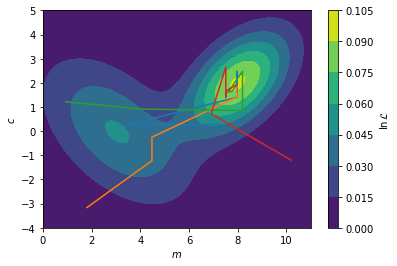
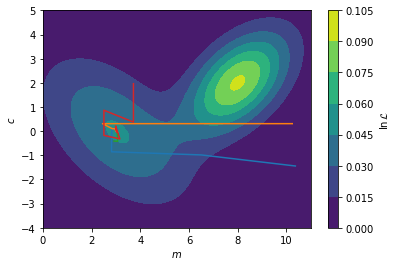
deploy: 1a5ddebe4ff2d83d4aadf628869c73e06b9ba302

diff --git a/searchindex.js b/searchindex.js
@@ -1,1 +1,1 @@
-Search.setIndex({docnames:["1_the_fourier_transform/an_introduction_to_fourier_transforms","1_the_fourier_transform/fourier_transforms_for_reflectometry_analysis","2_model_dependent_analysis/what_is_model_dependent_analysis","3_reflectometry_slab_models/how_we_calculate_the_reflectivity_of_a_slab_model","3_reflectometry_slab_models/roughness_and_microslicing","3_reflectometry_slab_models/the_slab_model","4_model_reparameterisation/a_case_for_model_reparameterisation","4_model_reparameterisation/niti_multilayer_example","4_model_reparameterisation/phospholipid_monolayer_example","5_fitting_processes_and_problems/how_do_we_maximise_the_likelihood","5_fitting_processes_and_problems/how_to_leverage_our_prior_knowledge","5_fitting_processes_and_problems/what_is_the_likelihood","intro"],envversion:{"sphinx.domains.c":2,"sphinx.domains.changeset":1,"sphinx.domains.citation":1,"sphinx.domains.cpp":4,"sphinx.domains.index":1,"sphinx.domains.javascript":2,"sphinx.domains.math":2,"sphinx.domains.python":3,"sphinx.domains.rst":2,"sphinx.domains.std":2,"sphinx.ext.intersphinx":1,"sphinxcontrib.bibtex":7,sphinx:56},filenames:["1_the_fourier_transform/an_introduction_to_fourier_transforms.md","1_the_fourier_transform/fourier_transforms_for_reflectometry_analysis.ipynb","2_model_dependent_analysis/what_is_model_dependent_analysis.md","3_reflectometry_slab_models/how_we_calculate_the_reflectivity_of_a_slab_model.ipynb","3_reflectometry_slab_models/roughness_and_microslicing.ipynb","3_reflectometry_slab_models/the_slab_model.md","4_model_reparameterisation/a_case_for_model_reparameterisation.md","4_model_reparameterisation/niti_multilayer_example.ipynb","4_model_reparameterisation/phospholipid_monolayer_example.ipynb","5_fitting_processes_and_problems/how_do_we_maximise_the_likelihood.ipynb","5_fitting_processes_and_problems/how_to_leverage_our_prior_knowledge.md","5_fitting_processes_and_problems/what_is_the_likelihood.ipynb","intro.md"],objects:{},objnames:{},objtypes:{},terms:{"0":[1,3,4,8,9,10,11,12],"000":9,"00039":12,"001":[1,3,4],"00260":12,"003":12,"0053":12,"007":12,"012":12,"01980001503076100":12,"02":12,"022":[7,12],"02614057":9,"0294":12,"03":12,"033":9,"04493869":9,"0469":12,"04893":12,"0496667614679125":11,"06":[4,7],"07":12,"074":1,"074e":[1,4],"078":12,"092":9,"0j":[3,4],"1":[0,1,3,4,7,8,9,10,11,12],"10":[1,4,7,9,11,12],"1000":[1,3,8,9,11],"1008202821328":12,"1016":12,"1023":12,"1039":12,"104":1,"1051":12,"107":12,"108":12,"1098":12,"11":[9,12],"1103":12,"1107":12,"1119":12,"1198":12,"12":[4,11,12],"1204":12,"14":4,"15":[8,12],"155":12,"16":[1,3],"167":9,"17":4,"1761":12,"1763":12,"18":[8,12],"186":1,"186e":[1,3,4],"18th":12,"19":[8,9,12],"193":12,"1948":12,"194812030504":12,"1954":12,"197":12,"1980":12,"1997":12,"1998":12,"1999":12,"1e":4,"1f77b4":11,"1j":[1,3],"2":[1,2,3,4,7,9,11,12],"20":[1,3,4],"200":[1,3,4,12],"2005":12,"2006":12,"2007":12,"2010":12,"2011":12,"2018":12,"2019":12,"2021":12,"20384101638663543":11,"204":12,"21":12,"23":7,"248":12,"25e":4,"265":8,"265n_c":8,"2827":12,"2848":12,"297":12,"2k_nk_":4,"3":[1,3,4,5,7,9,11,12],"300":[1,3],"311":12,"3254017":12,"33":12,"338":12,"339":12,"341":12,"342":12,"357":12,"359":12,"369":12,"370":12,"3blue1brown":0,"3e":7,"4":[1,3,4,5,7,9,11,12],"40":12,"41":12,"417":7,"417e":7,"418":12,"42":[11,12],"4245e":4,"434":12,"438":7,"44":12,"4526":12,"47":[7,12],"471":12,"5":[1,3,4,8,9],"50":4,"500":[1,3,4],"504":12,"51":7,"52":12,"520":12,"53":12,"531":12,"54":12,"58":7,"59":12,"596":12,"5q":3,"6":[1,3,4,7,9,12],"6133":12,"6141":12,"648":12,"649":12,"69":7,"7":[4,8,9,11],"73371606":9,"761":12,"779":12,"78":12,"8":[4,7,9,11],"84974279":9,"856832":12,"867":7,"87":12,"871":1,"871e":[3,4],"9":[4,7,12],"90":8,"908":7,"91":7,"922868":12,"95":12,"951e":7,"978":12,"98":[1,12],"99":12,"9957561":9,"99615666":9,"99998503":9,"99999727":9,"\u00e0":12,"\u00e5":[0,1,3,4,7,8],"\u00e8":12,"\u00e9":12,"\u00f6":12,"\u00fc":12,"abel\u00e8":[3,4],"abstract":7,"br\u00f6hl":12,"case":[5,10],"do":[1,2],"float":[7,9,11],"function":[1,2,3,4,5,8,9,11],"import":[1,2,3,4,5,6,7,8,9,11],"int":1,"new":12,"return":[1,3,7,9,11],"switch":12,"true":[6,9],"try":[9,12],"while":[6,7],A:[1,2,4,5,7,8,9,12],As:[5,8],Be:9,By:2,For:[1,7,8,11,12],If:[1,2,9,10,11,12],In:[1,5,6,8,9,10,12],It:[2,4,5,8,9,10,12],No:4,One:8,The:[0,2,3,4,6,7,8,9,11,12],Then:[1,2,3],There:[4,9],These:[1,4,9],To:[1,4,6],_:[1,3],ab:[1,3],abel:[3,4,12],abeles48:[3,12],abeles_with_rough:4,abl:4,about:[6,8,9,10],abov:[1,2,4,7,9,11],abscissa:11,absolut:9,academ:12,accept:[1,10],account:[4,12],accur:[2,4,6],acf2:1,acf:1,achiev:[4,8,10],across:11,act:8,action:1,ad:8,adapt:4,add:8,add_patch:4,addit:[1,6,8],addition:[2,3,4,6,7,9],admittedli:4,advanc:12,affect:8,after:[1,9],again:[1,4],against:5,agnet:12,agre:11,agreement:[2,9,11],aid:3,aim:[9,11,12],air:[1,4,8,12],al:6,algorithm:[2,9,10,12],all:[0,3,9,10,12],allow:[6,7,8,9],alon:9,alonso:12,alpha:11,alreadi:[2,10],also:[4,7,8],although:1,am:12,amphiphil:8,an:[2,4,5,6,9,10,12],analog:[0,9,11],analys:[9,12],analysi:[3,5,7,8,9,10,11,12],analyt:2,andbook:12,andrew:12,angstrom:7,ani:[4,11,12],ann:12,anomagnet:12,anoth:1,anphi:12,answer:12,apm:8,append:9,appl:12,appli:[1,2,4,6,8,9,12],applic:[3,9,12],approach:[1,2,3,4,5,6,7,8,9,12],approx:1,approxim:[3,12],ar:[0,1,2,3,4,5,6,7,8,9,10,11,12],area:6,argmax:9,argsort:9,arnold:12,around:4,arrai:[1,3,4,7,9],artefact:4,artifici:12,assembl:8,assess:9,assign:7,associ:[10,11,12],assum:[8,12],assumpt:[2,6,7,8],ateri:12,atom:[7,8],attach:8,attent:12,autocorrel:1,avail:1,avogadro:7,awar:[2,9],ax:[4,11],axhlin:1,b:[3,7,12],b_:[3,7],b_i:[7,8],b_ni:7,b_ti:7,back:9,bar:[3,11],base:[2,3,7],basic:12,bay:[10,12],bayesian:[10,12],becom:[1,9],been:[1,3,4,7,8,12],befor:[0,4,5,12],begin:3,being:[2,4,11],belief:10,believ:2,below:[0,1,3,4,5,7,8,9,11],benefit:8,berk:12,best:[8,9,11],beta:[1,3,4,7,8],beta_0:3,beta_1:5,beta_2:5,beta_:[1,7,8],beta_i:8,beta_microsl:4,beta_n:3,beta_ni:7,beta_ti:7,between:[0,1,2,3,4,5,9,11],bia:2,bias:10,bigg:[1,11],biolog:[9,12],bj:12,bjorck11:[9,12],black:[1,9],block:12,blue:[1,9,11],bmatrix:3,book:[1,10,12],born:[3,12],borrow:1,both:8,bound:[7,10],bowen:12,bp63:[10,12],bring:3,broad:[2,11],broadli:2,brought:3,bsd:3,c9cp00203k:12,c:[1,9,11,12],calcul:[1,2,4,5,8,11],call:5,callback:9,campbel:12,can:[1,2,3,4,5,6,7,8,9,10,11,12],cannot:[4,11],caract:12,carbon:8,carefulli:9,caruana:12,cation:12,catter:12,caus:8,caution:6,cdot:7,chanc:12,chang:[1,2,9],character:12,characterist:3,characteristic_matric:3,chem:12,chemic:[5,6,12],chemistri:2,chi:11,circ:8,clark:12,clear:[2,4,5,9],clearer:3,clearli:4,click:12,clifton:12,close:3,cm:7,coci:12,code:[4,7,9,12],collect:12,colloid:12,color:11,colorbar:9,comfort:12,common:[2,4,5,7,8,9],commonli:[6,9,11],companion:12,compar:[2,3,4,6,11],comparison:5,complementari:6,complet:[2,9],complex:[3,8,9,12],composit:8,computation:9,concept:6,conclus:9,condens:12,conj:3,conjug:3,consid:[1,2,3,4,5,7,8,9,10,11],consider:9,consist:[5,7,8],constant:[2,7,10],constrain:[7,8],constraint:[6,8],construct:[2,3,5,10],consult:8,content:12,context:2,continu:12,contourf:9,contrast:9,convers:6,could:[5,10],coupl:9,cours:12,cover:[2,12],creat:4,croce:[4,12],crystallogr:12,crystallographi:1,css:[8,12],cubitt:12,curr:12,current:[9,12],current_theta:9,curve_fit:11,d:[1,3,4,11,12],d_1:5,d_2:5,d_h:8,d_i:8,d_microsl:4,d_n:3,d_t:8,dan:12,data:[1,2,3,4,5,6,7,8,9,10,11,12],databas:7,datapoint:11,dataset:[9,11],de:12,decomposit:0,deep:12,def:[1,3,7,9,11],defin:[1,2,5,6,7,8,11],deg2rad:8,delta:1,denot:1,densiti:[1,3,4,5,6,8],depend:[5,7,8,9,10,11,12],deposit:7,deriv:[1,5],descent:9,describ:[2,3,4,5,6,9,10,11],descript:[1,6,8],design:10,desir:[7,9],deslatt:12,destruct:5,detail:[0,1,2],detector:5,determin:[3,9,12],develop:12,deviat:[3,11],devind:[1,10,12],diatom:2,diff:[1,3],differ:[1,4,5],differenti:[9,10,12],differential_evolut:9,difficult:8,dimens:[1,5],dimension:9,dioxid:[1,4],directli:7,discoveri:9,discuss:[1,4,5,11],disposit:7,distribut:[9,11],divid:1,docstr:3,doctrin:12,doe:[2,3,4],doi:12,domain:0,done:11,dot:11,downhil:9,dppc:8,dr:[1,10,12],draw:[9,12],dtype:3,du:12,due:[1,2],dura:12,dvanc:12,e:[5,12],each:[3,4,5,7,8],easili:[7,9],edgecolor:4,edit:12,editor:12,edler:12,effect:[1,4,9,12],effici:12,eflect:12,elast:0,element:[7,11],elementari:[1,12],eleph:12,els:2,enabl:[4,10],encount:[2,9],end:3,ensur:[2,9],entir:2,enumer:11,enzym:2,equat:[1,2],error:[4,11],errorbar:11,essai:12,essenti:0,estim:1,et:6,european:12,eutect:12,eutron:12,evalu:[7,12],eventu:9,ever:2,everi:8,evolut:[9,10,12],evolutionari:9,exampl:[2,4,5,6,9,10],exhaust:12,exist:[4,9],exp:[1,3,4],expect:[2,10],experi:[2,12],experiment:[2,5,6,11],explicitli:1,exploit:12,extend:8,extrem:8,f:[3,7,12],fact:10,factor:[3,11],fair:2,fals:4,familiar:[1,2,6],fantast:1,far:11,fashion:9,feed:9,feedback:12,feel:12,fernandez:12,ff7f0e:11,field:[8,12],fig:[2,4,5,8,11],figsiz:[4,11],figur:[1,2,4,9,11,12],fill:4,fill_between:11,find:[1,2,4,7,8,9,10,11],first:[1,2,3,5,6,7,9,11],fit:[2,6,7,9,11],fitzsimmon:12,flat:[1,4],flavour:[6,9],flexion:12,flow:2,fm05:12,fm:7,focus:0,follow:[1,7,8,9,11,12],forc:2,form:[1,9],formal:[3,4],format:12,found:[1,3,4,7,8,9,10],four:12,fourier:[2,3,5,12],fourier_transform:1,frac:[1,3,4,7,8,10,11],fraction:8,free:[6,9,12],frensel:3,fresnel:[3,4],fresnel_reflect:3,from:[0,1,2,3,4,5,6,7,8,9,11,12],full:1,fulli:8,fundament:[0,5],further:[9,10],g:[7,12],garbag:2,gcm:7,gener:[2,9,12],genet:12,geometri:5,gerelli:12,get:[2,11,12],give:[0,3,6,12],given:[4,5,8,9,11],glob:12,global:[9,12],go:[3,5,9],good:11,gradient:11,gradient_callback:9,gradient_v:9,graphic:7,great:[0,10],greater:1,group:8,guess:9,guntherodt:12,h:12,ha:[1,4,7,8,12],hall:12,hand:4,hard:7,harder:9,have:[1,2,3,8,9,10,11,12],head:8,heavili:[8,11,12],heavisid:1,heinrich:12,helper:[4,9],henc:[0,11],henomena:12,here:[3,11],heurist:12,higher:8,hoogerheid:12,hopefulli:5,horizont:1,how:[2,5,6,8,11,12],howard:12,howev:[1,2,4,5,6,7,9,11],hydrocarbon:8,hydrophil:8,hydrophob:[8,12],i:[1,3,5,7,8,11],identifi:4,ignor:4,impact:[0,4],implement:[3,4,9],impli:4,impos:10,improv:2,inaccur:4,incid:[1,5],includ:[0,2,3,7,8,12],incorrectli:4,increas:[4,9,11],independ:2,indic:[1,9,11],individu:[3,7],induc:12,influenc:4,inform:[1,6,12],infti:1,inher:2,initi:9,input:3,insect:9,insight:[2,12],insolubl:8,inspir:9,instead:[1,3,7,9,10],instrument:8,integr:[10,12],intens:[1,9],interact:[0,1,12],intercal:8,intercept:11,interest:[0,2,12],interfac:[3,4,5,8,12],interfer:5,interpret:[2,4],interrog:[4,9],introduc:[2,4,5,6,8,10,12],introduct:10,inv_fourier_transform:1,invers:[1,12],investig:[1,2,6,9],involv:[5,7],isbn:12,isi:12,isotop:9,issu:1,its:7,j:12,jackson:12,jci:12,john:[6,12],jpsc21:[6,12],jupyt:12,jupyterhub:12,k0:3,k:[1,3,9,12],k_0:3,k_:[3,4],k_n:[3,4],karin:12,khairi:12,kienzl:12,kinet:2,kn:3,knowledg:12,known:[2,4,8],kronm:12,l:[9,10,11,12],la:12,label:[1,3,4,9],lak19:12,lakei:12,languag:[6,12],larg:[1,12],later:[5,7],latter:6,lawrenc:12,layer:[3,4,5,7,8],le:12,lead:[0,2,4,5],leak:4,learn:[8,12],lectromagn:12,lectur:12,left:4,legend:[1,3,4],length:[1,3,4,5,6,8],less:5,let:[0,1,10],licens:3,light:12,like:[2,4,8,10],likelihood:10,likleihood:10,limit:[1,2,7,8],line:[1,9,11],linearli:11,link:12,linspac:[1,3,4,8,9,11],lipid:12,liquid:12,list:12,literatur:8,ller:12,ln:[9,11],loadtxt:11,local:9,log:[1,3,4,11],logic:[2,10,12],logpdf:9,lond:12,look:[0,1,2,3,6,9,10,11],loss:1,lost:5,lovel:12,low:3,lr99:[2,12],ls:11,lw:11,m:[3,9,11,12],m_:[3,7],m_w:7,m_w_ni:7,m_w_ti:7,made:[2,6,7],magnet:12,magnitud:1,mai:[1,2,6,7,11,12],majkrzak:12,major:[7,11],make:[2,3,6,8,12],mani:9,marker:11,mass:6,match:1,materi:[1,3,4,5,7,12],mathcal:[9,10,11],mathemat:12,mathit:[1,3],mathrm:[1,3,7,8,11],matnei:12,matplotlib:[1,3,4,8,9,11],matric:3,matrix:[3,4],matter:[7,12],matyszewska:12,max:[1,3,11],maxima:9,maximilian:12,maximis:[10,11],maximum:[8,9,10,11],mayer:12,mbd:[1,12],mccluskei:12,mead:9,mean:[1,4,7,8,9,11],measur:[0,1,2,5,6,10,11],media:3,member:9,membran:12,menten:2,mention:8,merit:2,meshgrid:9,method:[3,4,12],methodolog:[1,2,4,9,12],metric:[9,11],micel:12,micha:2,might:2,milieux:12,minim:9,minimis:[9,11],minimum:[9,10],mkh10:[2,12],modal:9,model:[1,4,7,8,9,10,11,12],modifi:[3,4,12],modul:[4,9],mol:7,molecul:[2,6],molecular:7,monolay:12,more:[0,2,4,6,7,8,9,10,11,12],most:[3,4,5,9],move:9,movement:12,msfe:[8,12],much:[3,5],multi:9,multivariate_norm:9,must:[2,4,8],mv1:9,mv2:9,mv:9,n:[3,4,7,8,11,12],n_:[3,11],n_a:7,n_c:8,nanostructur:12,natur:[6,8],navig:12,nazaruk:12,ndarrai:[1,3,7,9,11],nearbi:9,necessari:[3,4,9],need:2,neg:9,nelder:9,nelson:12,neutron:[0,1,2,3,5,6,7,9],nevot:4,nevotc80:[4,12],newaxi:[1,3],ni:7,nickel:[4,7],nll:9,nois:1,noisi:1,non:9,none:9,norm:11,normal:[1,3,9,11],normal_wavevector:3,normalis:[1,11],note:[1,2,8,9],notebook:12,notic:[4,11],novemb:12,now:[0,3,4,8,9,11],np19:[3,12],np:[1,3,4,7,8,9,11],nuanc:5,number:[1,6,7,8,9,11],number_lay:3,number_q:3,numpi:[1,3,4,7,8,9,11],o:11,observ:[1,4,5,11],obtain:[1,4,7],obvious:5,offer:2,olar:12,onc:[9,12],ond:12,one:[8,9,10,11],ones:3,ones_lik:4,onli:[1,4,7,8,11],onlin:7,opin:12,opinion:12,optim:[9,11,12],optimis:[8,9],optimum:9,orang:[9,11],order:[5,9],org:12,other:[8,11],our:[1,2,4,5,6,7,8,9,11],out:[2,10],outsid:10,over:12,overal:[3,9,11],overview:0,oxford:12,p0:3,p1:3,p:[10,11,12],packag:[3,7],page:12,pai:12,pan:12,panaccion:12,panosc:12,paper:12,par54:[3,12],par:12,param:[1,3,7,11],paramet:[3,4,5,6,7,8,9,10,11,12],parameteris:[6,8,12],pari:12,parker:12,parkin:12,parratt:[3,12],part:[1,11,12],particip:12,particl:9,particular:[5,6],particularli:12,patch:4,path:[5,9],pattern:[0,5],pdf:[9,11],peak:1,pedulla:12,per:6,perfect:4,perfectli:4,perform:[0,1,11],perpendicular:1,pg:1,phase:[1,2,3,12],phase_factor:3,phi:3,phi_0:3,phi_i:8,phi_n:3,phi_t:3,phil:12,phospholipid:12,phy:12,physic:[1,2,5,6,8,12],physica:12,physrev:12,pi:[1,3,11],pictori:8,piec:[1,4,7],pint:7,place:10,plane:[1,8],pleas:12,plot:[1,3,4,8,9,11,12],plt:[1,3,4,8,9,11],point:11,polar:12,polissag:12,popul:9,popular:2,posit:9,possibl:[1,2,4,5,8,9,11,12],posterior:10,power:12,prepar:[2,7],prescott:12,present:[1,2,4],press:12,pressur:8,preston:12,previou:[2,6],previous:[3,4,6,8],price:12,print:[7,9],probabl:[10,11],probe:[2,9,10],problem:[1,2,9,12],problemat:12,procedur:12,process:[2,6,7,9,12],prod:3,produc:[1,2,12],product:3,profil:[1,4,5],program:12,project:12,propag:[3,5,12],propos:2,propto:10,py:[4,9],pyplot:[1,3,4,8,9,11],python:[3,12],q2:1,q:[0,1,2,3,4,12],q_:1,q_x:1,q_y:1,qualiti:9,quantifi:9,quelqu:12,question:12,quick:1,r2:1,r:[1,3,4,5,8,12],r_:[3,4],r_abel:3,r_fourier:3,r_microsl:4,r_nevot_croc:4,r_with_rough:4,radiat:[0,1],rai:[1,12],random:9,rang:[1,2,3,4,9,12],rasant:12,rather:[2,6,7],ratio:5,ration:9,rayon:12,rck:12,re:9,reach:[7,9],read:12,reader:12,real:[3,4,5],realli:2,reason:7,recent:[8,12],rectangl:4,recurs:3,red:4,reduc:[6,8],refin:5,reflect:[1,2,4,5,12],reflectometri:[0,2,3,4,5,6,7,8,9,11],refnx:[3,12],refract:[3,5],region:[1,4,8,9],relat:7,relationship:1,relev:[8,12],reli:3,render:1,reparameteris:[5,7,8,11,12],repeat:7,repres:[2,11],reproduc:3,requir:[6,12],res1:9,res2:9,resolut:[1,2],respect:1,result:[1,2,3,4,5,9],resultant_matrix:3,retriv:1,rev:12,review:12,rewrit:1,rho:[3,7],rho_:7,rho_ni:7,rho_ti:7,rho_to_beta:7,richardson:12,right:4,risat:12,robust:9,room:7,root:9,rout:9,rphysap:12,rsta:12,rstl:12,rule:4,s0021889811041446:12,s0921:12,s1359:12,s1600576718017016:12,s1600576718017296:12,s:[0,1,7,8,9,10,12],saaka:12,sai:1,same:[4,5,7,11],sampl:[0,1,2,4,7],sanchez:12,sansom:12,satija:12,scale:[1,12],scatter:[0,1,3,4,5,6,8,12],sche:12,sci:12,scienc:[2,12],scipi:[7,9,11],search:12,section:[2,5,6,9],see:[4,5,9],seen:[10,11],select:11,self:8,semi:9,sensit:1,seri:[3,4,5],set:7,set_xlabel:[4,11],set_xlim:4,set_ylabel:[4,11],set_ylim:4,shao:12,shape:[3,9],shortest:4,should:[1,4,6,8,9,11,12],show:[1,2,3,4,5,7,8,9,11,12],shown:[1,2,3,4,5,8,9,11],si:1,sigma2:4,sigma3:4,sigma5:4,sigma7:4,sigma:[4,11],sigma_:4,sigma_n:11,silic:12,silicon:[1,4,7],similar:[2,3],simpl:[1,2,5,6,7,8,9,10,12],simpli:9,simul:[2,4,5,6,7],sin:8,singl:[8,11],sio_2:1,sit:[8,11],siv11:[1,12],sivia:[1,10,12],sj06:[10,12],skill:12,skip:12,sko19:12,skoda:12,slab:[4,6,8,12],sld_with_rough:4,smooth:[1,4],so:11,soc:12,soft:12,solid:12,solubl:8,solut:9,solv:12,solvat:8,solvent:[8,12],some:[0,1,2,4,5,8,9,10,11,12],someth:[0,2],son:12,sourc:12,sp97:[9,12],space:[0,9,12],spallat:12,speak:8,specif:[6,8],spectra:2,specular:12,spintron:12,springer:12,sqrt:3,squar:[1,3],sratifi:12,staff:8,standard:11,start:[9,10],stat:[9,11],state:10,step:[4,9,10],stephen:12,still:[4,7],storn:12,straight_lin:11,straightforward:6,strand:8,stratifi:3,structur:[1,2,6,7,12],student:12,studi:[1,2,8,12],subject:12,subplot:[4,11],suggest:[10,12],sum:[1,3,7],sum_:[7,8,11],summat:11,superphas:3,sur:12,sure:12,surfac:[1,3,7,12],surfact:12,swarm:9,synthesi:2,system:[1,2,4,5,6,7,8,9,12],t:[9,12],t_t:8,tackl:2,tail:8,take:[0,2,9,10],taken:[3,5],tan80:[8,12],tanford:[8,12],techniqu:[6,12],temperatur:7,tend:1,term:[5,7,8,11],textquotesingl:12,than:[1,4,7,9],thank:12,thei:[9,12],them:[4,11],theorem:10,theori:[1,12],therefor:[2,4,6,7,9,10],theta:[8,9,10,11],thi:[0,1,2,3,4,5,6,7,8,9,10,11,12],thick:[1,3,4,5,8],thin:4,thing:2,think:6,those:10,thought:1,three:[2,7],through:[3,4,5,12],thumb:4,tight_layout:11,time:[0,1,4,7],tiqu:12,titanium:7,tkh:[9,12],togeth:3,tool:[1,2,6],top4:9,top:1,toperverg:12,total:12,touch:12,toward:[1,9,12],tradit:[7,8,12],train:12,tran:12,transform:[2,3,5,12],translat:6,transmitt:3,treec:12,trigonometri:8,tude:12,turn:9,tutori:[10,12],two:[2,3,4,5,6,8,9],txt:11,typic:[2,4,5,6,7,8,9,11],tz07:12,u:7,uantum:12,uncertainti:11,unclear:7,under:[1,3,8],underli:[2,11],understand:[2,3,5,6,10,12],unintuit:6,uniqu:9,unit:0,unitregistri:7,univers:12,unlik:8,unphys:[1,4],until:7,up:9,uphil:9,us:[2,3,4,6,7,8,9,10,11,12],useless:1,user:[1,12],utilis:1,valu:[1,3,7,8,9,10,11],vari:[7,9],variabl:7,varieti:9,vector:3,veri:[4,8,9],verr:12,version:1,vibrat:2,video:0,virtual:12,visit:12,visualis:[1,4],vot:12,w:[7,12],wa:[1,2,5,10,12],wai:[2,8],want:12,watch:0,water:[8,12],wave:[3,5],wavevector:[1,3],wc19:12,we:[0,1,2,4,5,6,7,8,10,11,12],weight:7,welbourn:12,well:2,were:10,what:12,when:[3,5,8,9,10,11],where:[1,2,3,4,5,7,8,9,10,11],which:[0,1,3,4,7,8,9,10,11],width:4,wiesendang:12,wilei:12,within:10,without:[1,2,4],word:2,work:[4,6,12],workflow:2,wormington:12,would:[2,4,5,8,10],wpmb99:[9,12],written:[1,11],wwe:8,x:[1,9,11,12],x_n:11,xlabel:[1,3,4,8,9],xy:8,y:[9,10,11,12],y_fit:11,y_n:11,ylabel:[1,3,4,8,9],you:[1,2,10,11,12],your:[8,12],yscale:[1,3,4],yy:11,z:[1,3,4,5],zabel:12,zero:3,zeros_lik:[1,3],zhou:12,zorder:11,zq:1,ztbt07:12},titles:["An introduction to Fourier transforms","Fourier transforms for reflectometry analysis","What is model-dependent analysis?","How we calculate the reflectivity of a slab model","Roughness and microslicing","The \u201cslab model\u201d","A case for model reparameterisation","NiTi multilayer example","Phospholipid monolayer example","How do we maximise the likelihood?","How to leverage our prior knowledge?","What is the likelihood?","Introduction to neutron reflectometry fitting"],titleterms:{"case":6,"do":9,A:[6,10],The:[1,5],algorithm:3,an:[0,1],analysi:[1,2],angl:8,approxim:1,area:8,bibliographi:12,born:1,calcul:3,chain:8,densiti:7,depend:2,exampl:[1,7,8],fit:12,fourier:[0,1],gradient:9,how:[3,9,10],interfac:1,interfaci:4,introduct:[0,12],knowledg:10,layer:1,length:7,leverag:10,likelihood:[9,11],mass:7,maximis:9,method:9,microsl:4,model:[2,3,5,6],molecul:8,monolay:8,multilay:7,neutron:12,niti:7,our:10,oxid:1,per:8,phospholipid:8,prior:10,problem:4,reflect:3,reflectometri:[1,12],reparameteris:6,rough:4,scatter:7,singl:1,slab:[3,5],specular:1,stochast:9,tilt:8,transform:[0,1],uniform:10,us:1,we:[3,9],what:[0,2,11]}})
+Search.setIndex({docnames:["1_the_fourier_transform/an_introduction_to_fourier_transforms","1_the_fourier_transform/fourier_transforms_for_reflectometry_analysis","2_model_dependent_analysis/what_is_model_dependent_analysis","3_reflectometry_slab_models/how_we_calculate_the_reflectivity_of_a_slab_model","3_reflectometry_slab_models/roughness_and_microslicing","3_reflectometry_slab_models/the_slab_model","4_model_reparameterisation/a_case_for_model_reparameterisation","4_model_reparameterisation/niti_multilayer_example","4_model_reparameterisation/phospholipid_monolayer_example","5_fitting_processes_and_problems/how_do_we_maximise_the_likelihood","5_fitting_processes_and_problems/how_to_leverage_our_prior_knowledge","5_fitting_processes_and_problems/what_is_the_likelihood","intro"],envversion:{"sphinx.domains.c":2,"sphinx.domains.changeset":1,"sphinx.domains.citation":1,"sphinx.domains.cpp":4,"sphinx.domains.index":1,"sphinx.domains.javascript":2,"sphinx.domains.math":2,"sphinx.domains.python":3,"sphinx.domains.rst":2,"sphinx.domains.std":2,"sphinx.ext.intersphinx":1,"sphinxcontrib.bibtex":7,sphinx:56},filenames:["1_the_fourier_transform/an_introduction_to_fourier_transforms.md","1_the_fourier_transform/fourier_transforms_for_reflectometry_analysis.ipynb","2_model_dependent_analysis/what_is_model_dependent_analysis.md","3_reflectometry_slab_models/how_we_calculate_the_reflectivity_of_a_slab_model.ipynb","3_reflectometry_slab_models/roughness_and_microslicing.ipynb","3_reflectometry_slab_models/the_slab_model.md","4_model_reparameterisation/a_case_for_model_reparameterisation.md","4_model_reparameterisation/niti_multilayer_example.ipynb","4_model_reparameterisation/phospholipid_monolayer_example.ipynb","5_fitting_processes_and_problems/how_do_we_maximise_the_likelihood.ipynb","5_fitting_processes_and_problems/how_to_leverage_our_prior_knowledge.md","5_fitting_processes_and_problems/what_is_the_likelihood.ipynb","intro.md"],objects:{},objnames:{},objtypes:{},terms:{"0":[1,3,4,8,9,10,11,12],"000":9,"00039":12,"001":[1,3,4],"00260":12,"003":12,"0053":12,"007":12,"012":12,"01980001503076100":12,"02":12,"022":[7,12],"02606146":9,"02614057":9,"0294":12,"03":12,"033":9,"04483683":9,"04493869":9,"0469":12,"04893":12,"0496667614679125":11,"06":[4,7],"07":12,"074":1,"074e":[1,4],"078":12,"092":9,"0j":[3,4],"1":[0,1,3,4,7,8,9,10,11,12],"10":[1,4,7,9,11,12],"1000":[1,3,8,9,11],"1008202821328":12,"1016":12,"1023":12,"1039":12,"104":1,"1051":12,"107":12,"108":12,"1098":12,"11":[9,12],"1103":12,"1107":12,"1119":12,"1198":12,"12":[4,11,12],"1204":12,"14":4,"15":[8,12],"155":12,"16":[1,3],"167":9,"17":4,"1761":12,"1763":12,"18":[8,12],"186":1,"186e":[1,3,4],"18th":12,"19":[8,9,12],"193":12,"1948":12,"194812030504":12,"1954":12,"197":12,"1980":12,"1997":12,"1998":12,"1999":12,"1e":4,"1f77b4":11,"1j":[1,3],"2":[1,2,3,4,7,9,11,12],"20":[1,3,4],"200":[1,3,4,12],"2005":12,"2006":12,"2007":12,"2010":12,"2011":12,"2018":12,"2019":12,"2021":12,"20384101638663543":11,"204":12,"21":12,"23":7,"248":12,"25e":4,"265":8,"265n_c":8,"2827":12,"2848":12,"297":12,"2k_nk_":4,"3":[1,3,4,5,7,9,11,12],"300":[1,3],"311":12,"3254017":12,"33":12,"338":12,"339":12,"341":12,"342":12,"357":12,"359":12,"369":12,"370":12,"3blue1brown":0,"3e":7,"4":[1,3,4,5,7,9,11,12],"40":12,"41":12,"417":7,"417e":7,"418":12,"42":[11,12],"4245e":4,"434":12,"438":7,"44":12,"4526":12,"47":[7,12],"471":12,"5":[1,3,4,8,9],"50":4,"500":[1,3,4],"504":12,"51":7,"52":12,"520":12,"53":12,"531":12,"54":12,"58":7,"59":12,"596":12,"5q":3,"6":[1,3,4,7,9,12],"6133":12,"6141":12,"648":12,"649":12,"69":7,"7":[4,8,9,11],"761":12,"779":12,"78":12,"8":[4,7,9,11],"856832":12,"867":7,"87":12,"871":1,"871e":[3,4],"9":[4,7,12],"90":8,"908":7,"91":7,"922868":12,"95":12,"951e":7,"978":12,"98":[1,12],"99":12,"9957561":9,"99615666":9,"99998503":9,"99999727":9,"\u00e0":12,"\u00e5":[0,1,3,4,7,8],"\u00e8":12,"\u00e9":12,"\u00f6":12,"\u00fc":12,"abel\u00e8":[3,4],"abstract":7,"br\u00f6hl":12,"case":[5,10],"do":[1,2],"float":[7,9,11],"function":[1,2,3,4,5,8,9,11],"import":[1,2,3,4,5,6,7,8,9,11],"int":1,"new":12,"return":[1,3,7,9,11],"switch":12,"true":[6,9],"try":[9,12],"while":[6,7],A:[1,2,4,5,7,8,9,12],As:[5,8],Be:9,By:2,For:[1,7,8,11,12],If:[1,2,9,10,11,12],In:[1,5,6,8,9,10,12],It:[2,4,5,8,9,10,12],No:4,One:8,The:[0,2,3,4,6,7,8,9,11,12],Then:[1,2,3],There:[4,9],These:[1,4,9],To:[1,4,6],_:[1,3],ab:[1,3],abel:[3,4,12],abeles48:[3,12],abeles_with_rough:4,abl:4,about:[6,8,9,10],abov:[1,2,4,7,9,11],abscissa:11,absolut:9,academ:12,accept:[1,10],account:[4,12],accur:[2,4,6],acf2:1,acf:1,achiev:[4,8,10],across:11,act:8,action:1,ad:8,adapt:4,add:8,add_patch:4,addit:[1,6,8],addition:[2,3,4,6,7,9],admittedli:4,advanc:12,affect:8,after:[1,9],again:[1,4],against:5,agnet:12,agre:11,agreement:[2,9,11],aid:3,aim:[9,11,12],air:[1,4,8,12],al:6,algorithm:[2,9,10,12],all:[0,3,9,10,12],allow:[6,7,8,9],alon:9,alonso:12,alpha:11,alreadi:[2,10],also:[4,7,8],although:1,am:12,amphiphil:8,an:[2,4,5,6,9,10,12],analog:[0,9,11],analys:[9,12],analysi:[3,5,7,8,9,10,11,12],analyt:2,andbook:12,andrew:12,angstrom:7,ani:[4,11,12],ann:12,anomagnet:12,anoth:1,anphi:12,answer:12,apm:8,append:9,appl:12,appli:[1,2,4,6,8,9,12],applic:[3,9,12],approach:[1,2,3,4,5,6,7,8,9,12],approx:1,approxim:[3,12],ar:[0,1,2,3,4,5,6,7,8,9,10,11,12],area:6,argmax:9,argsort:9,arnold:12,around:4,arrai:[1,3,4,7,9],artefact:4,artifici:12,assembl:8,assess:9,assign:7,associ:[10,11,12],assum:[8,12],assumpt:[2,6,7,8],ateri:12,atom:[7,8],attach:8,attent:12,autocorrel:1,avail:1,avogadro:7,awar:[2,9],ax:[4,11],axhlin:1,b:[3,7,12],b_:[3,7],b_i:[7,8],b_ni:7,b_ti:7,back:9,bar:[3,11],base:[2,3,7],basic:12,bay:[10,12],bayesian:[10,12],becom:[1,9],been:[1,3,4,7,8,12],befor:[0,4,5,12],begin:3,being:[2,4,11],belief:10,believ:2,below:[0,1,3,4,5,7,8,9,11],benefit:8,berk:12,best:[8,9,11],beta:[1,3,4,7,8],beta_0:3,beta_1:5,beta_2:5,beta_:[1,7,8],beta_i:8,beta_microsl:4,beta_n:3,beta_ni:7,beta_ti:7,between:[0,1,2,3,4,5,9,11],bia:2,bias:10,bigg:[1,11],biolog:[9,12],bj:12,bjorck11:[9,12],black:[1,9],block:12,blue:[1,9,11],bmatrix:3,book:[1,10,12],born:[3,12],borrow:1,both:8,bound:[7,10],bowen:12,bp63:[10,12],bring:3,broad:[2,11],broadli:2,brought:3,bsd:3,c9cp00203k:12,c:[1,9,11,12],calcul:[1,2,4,5,8,11],call:5,callback:9,campbel:12,can:[1,2,3,4,5,6,7,8,9,10,11,12],cannot:[4,11],caract:12,carbon:8,carefulli:9,caruana:12,cation:12,catter:12,caus:8,caution:6,cdot:7,chanc:12,chang:[1,2,9],character:12,characterist:3,characteristic_matric:3,chem:12,chemic:[5,6,12],chemistri:2,chi:11,circ:8,clark:12,clear:[2,4,5,9],clearer:3,clearli:4,click:12,clifton:12,close:3,cm:7,coci:12,code:[4,7,9,12],collect:12,colloid:12,color:11,colorbar:9,comfort:12,common:[2,4,5,7,8,9],commonli:[6,9,11],companion:12,compar:[2,3,4,6,11],comparison:5,complementari:6,complet:[2,9],complex:[3,8,9,12],composit:8,computation:9,concept:6,conclus:9,condens:12,conj:3,conjug:3,consid:[1,2,3,4,5,7,8,9,10,11],consider:9,consist:[5,7,8],constant:[2,7,10],constrain:[7,8],constraint:[6,8],construct:[2,3,5,10],consult:8,content:12,context:2,continu:12,contourf:9,contrast:9,convers:6,could:[5,10],coupl:9,cours:12,cover:[2,12],creat:[4,12],croce:[4,12],crystallogr:12,crystallographi:1,css:[8,12],cubitt:12,curr:12,current:[9,12],current_theta:9,curve_fit:11,d:[1,3,4,11,12],d_1:5,d_2:5,d_h:8,d_i:8,d_microsl:4,d_n:3,d_t:8,dan:12,data:[1,2,3,4,5,6,7,8,9,10,11,12],databas:7,datapoint:11,dataset:[9,11],de:12,decomposit:0,deep:12,def:[1,3,7,9,11],defin:[1,2,5,6,7,8,11],deg2rad:8,delta:1,denot:1,densiti:[1,3,4,5,6,8],depend:[5,7,8,9,10,11,12],deposit:7,deriv:[1,5],descent:9,describ:[2,3,4,5,6,9,10,11],descript:[1,6,8],design:10,desir:[7,9],deslatt:12,destruct:5,detail:[0,1,2],detector:5,determin:[3,9,12],develop:12,deviat:[3,11],devind:[1,10,12],diatom:2,diff:[1,3],differ:[1,4,5],differenti:[9,10,12],differential_evolut:9,difficult:8,dimens:[1,5],dimension:9,dioxid:[1,4],directli:7,discoveri:9,discuss:[1,4,5,11],disposit:7,distribut:[9,11],divid:1,docstr:3,doctrin:12,doe:[2,3,4],doi:12,domain:0,done:11,dot:11,downhil:9,dppc:8,dr:[1,10,12],draw:[9,12],dtype:3,du:12,due:[1,2],dura:12,dvanc:12,e:[5,12],each:[3,4,5,7,8],easili:[7,9],edgecolor:4,edit:12,editor:12,edler:12,effect:[1,4,9,12],effici:12,eflect:12,elast:0,element:[7,11],elementari:[1,12],eleph:12,els:2,enabl:[4,10],encount:[2,9],end:3,ensur:[2,9],entir:2,enumer:11,enzym:2,equat:[1,2],error:[4,11],errorbar:11,essai:12,essenti:0,estim:1,et:6,european:12,eutect:12,eutron:12,evalu:[7,12],eventu:9,ever:2,everi:8,evolut:[9,10,12],evolutionari:9,exampl:[2,4,5,6,9,10],exhaust:12,exist:[4,9],exp:[1,3,4],expect:[2,10],experi:[2,12],experiment:[2,5,6,11],explicitli:1,exploit:12,extend:8,extrem:8,f:[3,7,12],fact:10,factor:[3,11],fair:2,fals:4,familiar:[1,2,6],fantast:1,far:11,fashion:9,feed:9,feedback:12,feel:12,fernandez:12,ff7f0e:11,field:[8,12],fig:[2,4,5,8,11],figsiz:[4,11],figur:[1,2,4,9,11,12],file:12,fill:4,fill_between:11,find:[1,2,4,7,8,9,10,11],first:[1,2,3,5,6,7,9,11],fit:[2,6,7,9,11],fitzsimmon:12,flat:[1,4],flavour:[6,9],flexion:12,flow:2,fm05:12,fm:7,focus:0,follow:[1,7,8,9,11,12],forc:2,form:[1,9],formal:[3,4],format:12,found:[1,3,4,7,8,9,10],four:12,fourier:[2,3,5,12],fourier_transform:1,frac:[1,3,4,7,8,10,11],fraction:8,free:[6,9,12],frensel:3,fresnel:[3,4],fresnel_reflect:3,from:[0,1,2,3,4,5,6,7,8,9,11,12],full:1,fulli:8,fundament:[0,5],further:[9,10],g:[7,12],garbag:2,gcm:7,gener:[2,9,12],genet:12,geometri:5,gerelli:12,get:[2,11,12],give:[0,3,6,12],given:[4,5,8,9,11],glob:12,global:[9,12],go:[3,5,9],good:11,gradient:11,gradient_callback:9,gradient_v:9,graphic:7,great:[0,10],greater:1,group:8,guess:9,guntherodt:12,h:12,ha:[1,4,7,8,12],hall:12,hand:4,hard:7,harder:9,have:[1,2,3,8,9,10,11,12],head:8,heavili:[8,11,12],heavisid:1,heinrich:12,helper:[4,9],henc:[0,11],henomena:12,here:[3,11],heurist:12,higher:8,hoogerheid:12,hopefulli:5,horizont:1,how:[2,5,6,8,11,12],howard:12,howev:[1,2,4,5,6,7,9,11],hydrocarbon:8,hydrophil:8,hydrophob:[8,12],i:[1,3,5,7,8,11],identifi:4,ignor:4,impact:[0,4],implement:[3,4,9],impli:4,impos:10,improv:2,inaccur:4,incid:[1,5],includ:[0,2,3,7,8,12],incorrectli:4,increas:[4,9,11],independ:2,indic:[1,9,11],individu:[3,7],induc:12,influenc:4,inform:[1,6,12],infti:1,inher:2,initi:9,input:3,insect:9,insight:[2,12],insolubl:8,inspir:9,instead:[1,3,7,9,10],instrument:8,integr:[10,12],intens:[1,9],interact:[0,1,12],intercal:8,intercept:11,interest:[0,2,12],interfac:[3,4,5,8,12],interfer:5,interpret:[2,4],interrog:[4,9],introduc:[2,4,5,6,8,10,12],introduct:10,inv_fourier_transform:1,invers:[1,12],investig:[1,2,6,9],involv:[5,7],isbn:12,isi:12,isotop:9,issu:1,its:7,j:12,jackson:12,jci:12,john:[6,12],jpsc21:[6,12],jupyt:12,jupyterhub:12,k0:3,k:[1,3,9,12],k_0:3,k_:[3,4],k_n:[3,4],karin:12,khairi:12,kienzl:12,kinet:2,kn:3,knowledg:12,known:[2,4,8],kronm:12,l:[9,10,11,12],la:12,label:[1,3,4,9],lak19:12,lakei:12,languag:[6,12],larg:[1,12],later:[5,7],latter:6,lawrenc:12,layer:[3,4,5,7,8],le:12,lead:[0,2,4,5],leak:4,learn:[8,12],lectromagn:12,lectur:12,left:4,legend:[1,3,4],length:[1,3,4,5,6,8],less:5,let:[0,1,10],licens:3,light:12,like:[2,4,8,10],likelihood:10,likleihood:10,limit:[1,2,7,8],line:[1,9,11],linearli:11,link:12,linspac:[1,3,4,8,9,11],lipid:12,liquid:12,list:12,literatur:8,ller:12,ln:[9,11],loadtxt:11,local:9,log:[1,3,4,11],logic:[2,10,12],logpdf:9,lond:12,look:[0,1,2,3,6,9,10,11],loss:1,lost:5,lovel:12,low:3,lr99:[2,12],ls:11,lw:11,m:[3,9,11,12],m_:[3,7],m_w:7,m_w_ni:7,m_w_ti:7,made:[2,6,7],magnet:12,magnitud:1,mai:[1,2,6,7,11,12],majkrzak:12,major:[7,11],make:[2,3,6,8,12],mani:9,marker:11,mass:6,match:1,materi:[1,3,4,5,7,12],mathcal:[9,10,11],mathemat:12,mathit:[1,3],mathrm:[1,3,7,8,11],matnei:12,matplotlib:[1,3,4,8,9,11],matric:3,matrix:[3,4],matter:[7,12],matyszewska:12,max:[1,3,11],maxima:9,maximilian:12,maximis:[10,11],maximum:[8,9,10,11],mayer:12,mbd:[1,12],mccluskei:12,mead:9,mean:[1,4,7,8,9,11],measur:[0,1,2,5,6,10,11],media:3,member:9,membran:12,menten:2,mention:8,merit:2,meshgrid:9,method:[3,4,12],methodolog:[1,2,4,9,12],metric:[9,11],micel:12,micha:2,might:2,milieux:12,minim:9,minimis:[9,11],minimum:[9,10],mkh10:[2,12],modal:9,model:[1,4,7,8,9,10,11,12],modifi:[3,4,12],modul:[4,9],mol:7,molecul:[2,6],molecular:7,monolay:12,more:[0,2,4,6,7,8,9,10,11,12],most:[3,4,5,9],move:9,movement:12,msfe:[8,12],much:[3,5],multi:9,multivariate_norm:9,must:[2,4,8],mv1:9,mv2:9,mv:9,n:[3,4,7,8,11,12],n_:[3,11],n_a:7,n_c:8,nanostructur:12,natur:[6,8],navig:12,nazaruk:12,ndarrai:[1,3,7,9,11],nearbi:9,necessari:[3,4,9,12],need:2,neg:9,nelder:9,nelson:12,neutron:[0,1,2,3,5,6,7,9],nevot:4,nevotc80:[4,12],newaxi:[1,3],ni:7,nickel:[4,7],nll:9,nois:1,noisi:1,non:9,none:9,norm:11,normal:[1,3,9,11],normal_wavevector:3,normalis:[1,11],note:[1,2,8,9],notebook:12,notic:[4,11],novemb:12,now:[0,3,4,8,9,11],np19:[3,12],np:[1,3,4,7,8,9,11],nuanc:5,number:[1,6,7,8,9,11],number_lay:3,number_q:3,numpi:[1,3,4,7,8,9,11],o:11,observ:[1,4,5,11],obtain:[1,4,7],obvious:5,offer:2,olar:12,onc:[9,12],ond:12,one:[8,9,10,11],ones:3,ones_lik:4,onli:[1,4,7,8,11],onlin:7,opin:12,opinion:12,optim:[9,11,12],optimis:[8,9],optimum:9,orang:[9,11],order:[5,9],org:12,other:[8,11],our:[1,2,4,5,6,7,8,9,11],out:[2,10],outsid:10,over:12,overal:[3,9,11],overview:0,oxford:12,p0:3,p1:3,p:[10,11,12],packag:[3,7],page:12,pai:12,pan:12,panaccion:12,panosc:12,paper:12,par54:[3,12],par:12,param:[1,3,7,11],paramet:[3,4,5,6,7,8,9,10,11,12],parameteris:[6,8,12],pari:12,parker:12,parkin:12,parratt:[3,12],part:[1,11,12],particip:12,particl:9,particular:[5,6],particularli:12,patch:4,path:[5,9,12],pattern:[0,5],pdf:[9,11],peak:1,pedulla:12,per:6,perfect:4,perfectli:4,perform:[0,1,11],perpendicular:1,pg:1,phase:[1,2,3,12],phase_factor:3,phi:3,phi_0:3,phi_i:8,phi_n:3,phi_t:3,phil:12,phospholipid:12,phy:12,physic:[1,2,5,6,8,12],physica:12,physrev:12,pi:[1,3,11],pictori:8,piec:[1,4,7],pint:7,place:10,plane:[1,8],pleas:12,plot:[1,3,4,8,9,11,12],plt:[1,3,4,8,9,11],point:11,polar:12,polissag:12,popul:9,popular:2,posit:9,possibl:[1,2,4,5,8,9,11,12],posterior:10,power:12,prepar:[2,7],prescott:12,present:[1,2,4],press:12,pressur:8,preston:12,previou:[2,6],previous:[3,4,6,8],price:12,print:[7,9],probabl:[10,11],probe:[2,9,10],problem:[1,2,9,12],problemat:12,procedur:12,process:[2,6,7,9,12],prod:3,produc:[1,2,12],product:3,profil:[1,4,5],program:12,project:12,propag:[3,5,12],propos:2,propto:10,py:[4,9],pyplot:[1,3,4,8,9,11],python:[3,12],q2:1,q:[0,1,2,3,4,12],q_:1,q_x:1,q_y:1,qualiti:9,quantifi:9,quelqu:12,question:12,quick:1,r2:1,r:[1,3,4,5,8,12],r_:[3,4],r_abel:3,r_fourier:3,r_microsl:4,r_nevot_croc:4,r_with_rough:4,radiat:[0,1],rai:[1,12],random:9,rang:[1,2,3,4,9,12],rasant:12,rather:[2,6,7],ratio:5,ration:9,rayon:12,rck:12,re:9,reach:[7,9],read:12,reader:12,real:[3,4,5],realli:2,reason:7,recent:[8,12],rectangl:4,recurs:3,red:4,reduc:[6,8],refin:5,reflect:[1,2,4,5,12],reflectometri:[0,2,3,4,5,6,7,8,9,11],refnx:[3,12],refract:[3,5],region:[1,4,8,9],relat:7,relationship:1,relev:[8,12],reli:3,render:1,reparameteris:[5,7,8,11,12],repeat:7,repres:[2,11],reproduc:3,requir:[6,12],res1:9,res2:9,resolut:[1,2],respect:1,result:[1,2,3,4,5,9],resultant_matrix:3,retriv:1,rev:12,review:12,rewrit:1,rho:[3,7],rho_:7,rho_ni:7,rho_ti:7,rho_to_beta:7,richardson:12,right:4,risat:12,robust:9,room:7,root:9,rout:9,rphysap:12,rsta:12,rstl:12,rule:4,s0021889811041446:12,s0921:12,s1359:12,s1600576718017016:12,s1600576718017296:12,s:[0,1,7,8,9,10,12],saaka:12,sai:1,same:[4,5,7,11],sampl:[0,1,2,4,7],sanchez:12,sansom:12,satija:12,scale:[1,12],scatter:[0,1,3,4,5,6,8,12],sche:12,sci:12,scienc:[2,12],scipi:[7,9,11],search:12,section:[2,5,6,9],see:[4,5,9],seen:[10,11],select:11,self:8,semi:9,sensit:1,seri:[3,4,5],set:7,set_xlabel:[4,11],set_xlim:4,set_ylabel:[4,11],set_ylim:4,shao:12,shape:[3,9],shortest:4,should:[1,4,6,8,9,11,12],show:[1,2,3,4,5,7,8,9,11,12],shown:[1,2,3,4,5,8,9,11],si:1,sigma2:4,sigma3:4,sigma5:4,sigma7:4,sigma:[4,11],sigma_:4,sigma_n:11,silic:12,silicon:[1,4,7],similar:[2,3],simpl:[1,2,5,6,7,8,9,10,12],simpli:9,simul:[2,4,5,6,7],sin:8,singl:[8,11],sio_2:1,sit:[8,11],siv11:[1,12],sivia:[1,10,12],sj06:[10,12],skill:12,skip:12,sko19:12,skoda:12,slab:[4,6,8,12],sld_with_rough:4,smooth:[1,4],so:11,soc:12,soft:12,solid:12,solubl:8,solut:9,solv:12,solvat:8,solvent:[8,12],some:[0,1,2,4,5,8,9,10,11,12],someth:[0,2],son:12,sourc:12,sp97:[9,12],space:[0,9,12],spallat:12,speak:8,specif:[6,8],spectra:2,specular:12,spintron:12,springer:12,sqrt:3,squar:[1,3],sratifi:12,staff:8,standard:11,start:[9,10],stat:[9,11],state:10,step:[4,9,10],stephen:12,still:[4,7],storn:12,straight_lin:11,straightforward:6,strand:8,stratifi:3,structur:[1,2,6,7,12],student:12,studi:[1,2,8,12],subject:12,subplot:[4,11],suggest:[10,12],sum:[1,3,7],sum_:[7,8,11],summat:11,superphas:3,sur:12,sure:12,surfac:[1,3,7,12],surfact:12,swarm:9,synthesi:2,system:[1,2,4,5,6,7,8,9,12],t:[9,12],t_t:8,tackl:2,tail:8,take:[0,2,9,10],taken:[3,5],tan80:[8,12],tanford:[8,12],techniqu:[6,12],temperatur:7,tend:1,term:[5,7,8,11],textquotesingl:12,than:[1,4,7,9],thank:12,thei:[9,12],them:[4,11],theorem:10,theori:[1,12],therefor:[2,4,6,7,9,10],theta:[8,9,10,11],thi:[0,1,2,3,4,5,6,7,8,9,10,11,12],thick:[1,3,4,5,8],thin:4,thing:2,think:6,those:10,thought:1,three:[2,7],through:[3,4,5,12],thumb:4,tight_layout:11,time:[0,1,4,7],tiqu:12,titanium:7,tkh:[9,12],togeth:3,tool:[1,2,6],top4:9,top:1,toperverg:12,total:12,touch:12,toward:[1,9,12],tradit:[7,8,12],train:12,tran:12,transform:[2,3,5,12],translat:6,transmitt:3,treec:12,trigonometri:8,tude:12,turn:9,tutori:[10,12],two:[2,3,4,5,6,8,9],txt:11,typic:[2,4,5,6,7,8,9,11],tz07:12,u:7,uantum:12,uncertainti:11,unclear:7,under:[1,3,8],underli:[2,11],understand:[2,3,5,6,10,12],unintuit:6,uniqu:9,unit:0,unitregistri:7,univers:12,unlik:8,unphys:[1,4],until:7,up:9,uphil:9,url:12,us:[2,3,4,6,7,8,9,10,11,12],useless:1,user:[1,12],utilis:1,valu:[1,3,7,8,9,10,11],vari:[7,9],variabl:7,varieti:9,vector:3,veri:[4,8,9],verr:12,version:1,vibrat:2,video:0,virtual:12,visit:12,visualis:[1,4],vot:12,w:[7,12],wa:[1,2,5,10,12],wai:[2,8],want:12,watch:0,water:[8,12],wave:[3,5],wavevector:[1,3],wc19:12,we:[0,1,2,4,5,6,7,8,10,11,12],weight:7,welbourn:12,well:2,were:10,what:12,when:[3,5,8,9,10,11],where:[1,2,3,4,5,7,8,9,10,11],which:[0,1,3,4,7,8,9,10,11],width:4,wiesendang:12,wilei:12,within:10,without:[1,2,4],word:2,work:[4,6,12],workflow:2,wormington:12,would:[2,4,5,8,10],wpmb99:[9,12],written:[1,11],wwe:8,x:[1,9,11,12],x_n:11,xlabel:[1,3,4,8,9],xy:8,y:[9,10,11,12],y_fit:11,y_n:11,ylabel:[1,3,4,8,9],you:[1,2,10,11,12],your:[8,12],yscale:[1,3,4],yy:11,z:[1,3,4,5],zabel:12,zero:3,zeros_lik:[1,3],zhou:12,zorder:11,zq:1,ztbt07:12},titles:["An introduction to Fourier transforms","Fourier transforms for reflectometry analysis","What is model-dependent analysis?","How we calculate the reflectivity of a slab model","Roughness and microslicing","The \u201cslab model\u201d","A case for model reparameterisation","NiTi multilayer example","Phospholipid monolayer example","How do we maximise the likelihood?","How to leverage our prior knowledge?","What is the likelihood?","Introduction to neutron reflectometry fitting"],titleterms:{"case":6,"do":9,A:[6,10],The:[1,5],algorithm:3,an:[0,1],analysi:[1,2],angl:8,approxim:1,area:8,bibliographi:12,born:1,calcul:3,chain:8,densiti:7,depend:2,exampl:[1,7,8],fit:12,fourier:[0,1],gradient:9,how:[3,9,10],interfac:1,interfaci:4,introduct:[0,12],knowledg:10,layer:1,length:7,leverag:10,likelihood:[9,11],mass:7,maximis:9,method:9,microsl:4,model:[2,3,5,6],molecul:8,monolay:8,multilay:7,neutron:12,niti:7,our:10,oxid:1,per:8,phospholipid:8,prior:10,problem:4,reflect:3,reflectometri:[1,12],reparameteris:6,rough:4,scatter:7,singl:1,slab:[3,5],specular:1,stochast:9,tilt:8,transform:[0,1],uniform:10,us:1,we:[3,9],what:[0,2,11]}})

diff --git a/intro.html b/intro.html
@@ -317,8 +317,8 @@ Thanks to Drs Maximilian Skoda, Andrew Caruana, and Stephen Hall for feedback on
 <p>In this course, we make use of the Python programming language heavily to show mathematics and plot figures.
 The aim is that the course should <strong>not</strong> require knowledge of Python to understand the content.
 If you are not comfortable with Python, feel free to skip the code blocks, but make sure to <strong>pay attention</strong> to the plots that are produced.</p>
-<p>If you want to interact with the Python code, this is possible by visiting this course on <a class="reference external" href="https://pan-learning.org/moodle/course/view.php?id=96">pan-learning.org</a>.
-Once you are there and have an account, click on the JupyterHub link and navigate to the Jupyter Notebook that you want to modify the code for.</p>
+<p>If you want to <strong>interact</strong> with the Python code, this is possible by visiting this course on <a class="reference external" href="https://pan-learning.org/moodle/course/view.php?id=96">pan-learning.org</a>.
+Once you are there create an account (in necessary), click on the JupyterHub link and navigate to the Jupyter Notebook that you want to modify the code for (the file path can be determined from the url of the page).</p>
 </div>
 <div class="section" id="bibliography">
 <h2>Bibliography<a class="headerlink" href="#bibliography" title="Permalink to this headline">¶</a></h2>

diff --git a/5_fitting_processes_and_problems/how_do_we_maximise_the_likelihood.html b/5_fitting_processes_and_problems/how_do_we_maximise_the_likelihood.html
@@ -462,7 +462,7 @@ This is necessary as, as we can see from the overall maximum, the differential e
 </div>
 <div class="cell_output docutils container">
 <img alt="../_images/how_do_we_maximise_the_likelihood_6_0.png" src="../_images/how_do_we_maximise_the_likelihood_6_0.png" />
-<div class="output stream highlight-myst-ansi notranslate"><div class="highlight"><pre><span></span>Overall Maximum: [7.73371606 1.84974279]
+<div class="output stream highlight-myst-ansi notranslate"><div class="highlight"><pre><span></span>Overall Maximum: [ 3.04483683 -0.02606146]
 </pre></div>
 </div>
 </div>

diff --git a/_sources/intro.md b/_sources/intro.md
@@ -25,8 +25,8 @@ In this course, we make use of the Python programming language heavily to show m
 The aim is that the course should **not** require knowledge of Python to understand the content.
 If you are not comfortable with Python, feel free to skip the code blocks, but make sure to **pay attention** to the plots that are produced. 
 
-If you want to interact with the Python code, this is possible by visiting this course on [pan-learning.org](https://pan-learning.org/moodle/course/view.php?id=96). 
-Once you are there and have an account, click on the JupyterHub link and navigate to the Jupyter Notebook that you want to modify the code for. 
+If you want to **interact** with the Python code, this is possible by visiting this course on [pan-learning.org](https://pan-learning.org/moodle/course/view.php?id=96). 
+Once you are there create an account (in necessary), click on the JupyterHub link and navigate to the Jupyter Notebook that you want to modify the code for (the file path can be determined from the url of the page). 
 ```
 
 ## Bibliography
